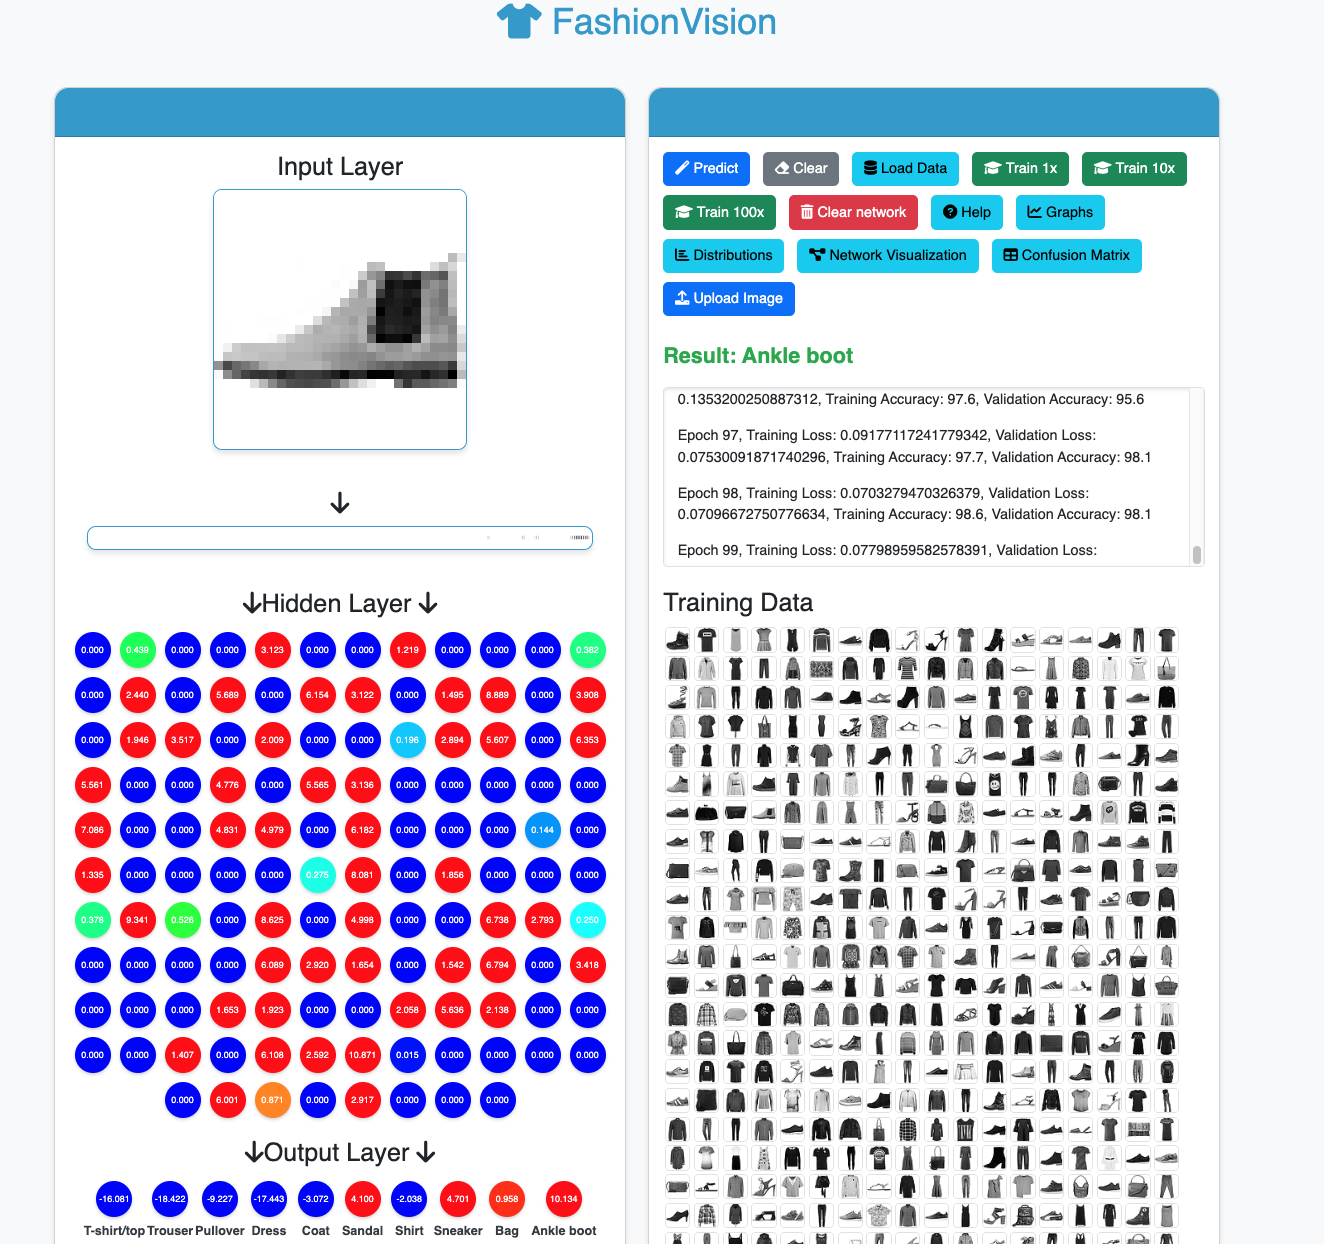
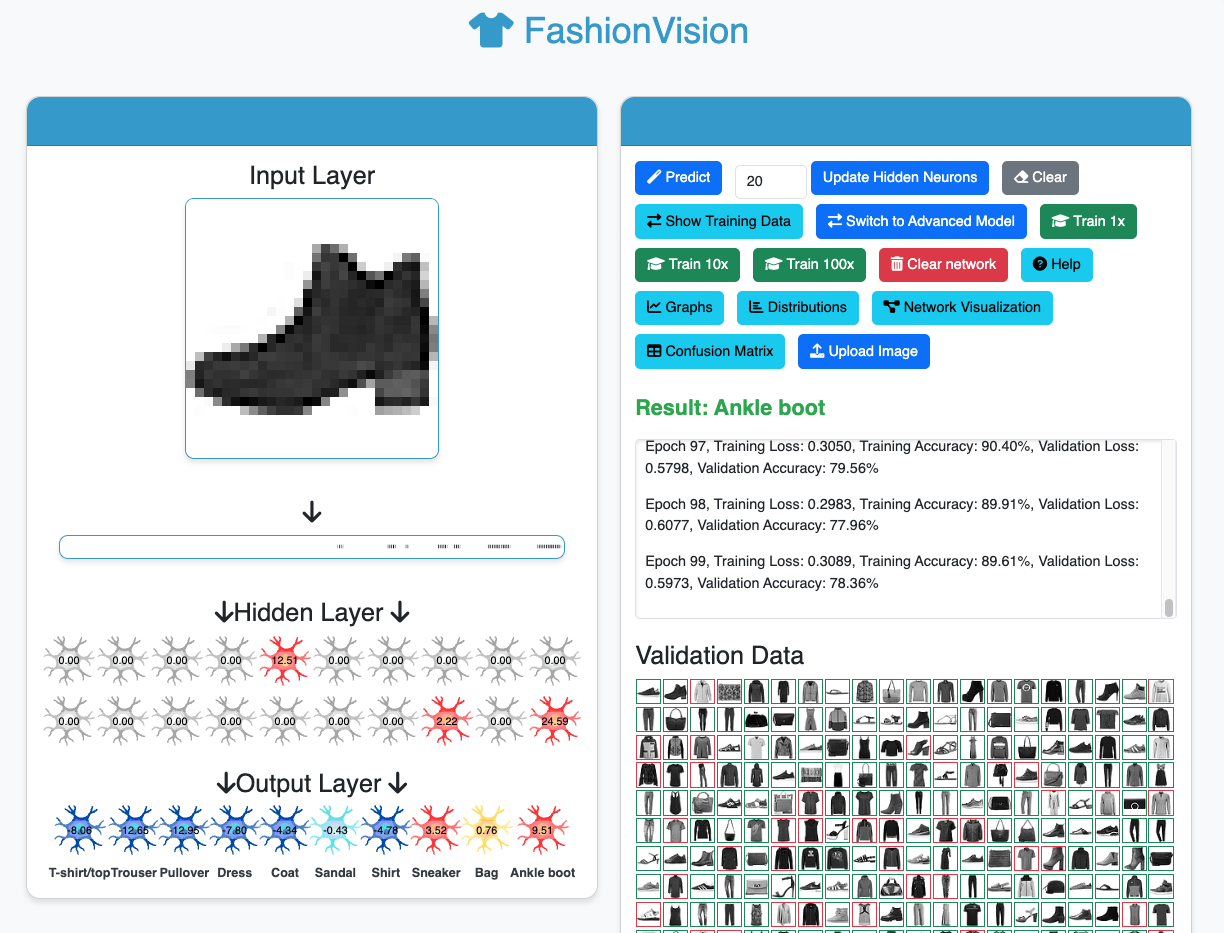
✨ feat: Added new interactive feature for drawing fashion items on a grid to test neural network predictions or upload an image. Also included pop-up windows to visualize confusion matrix, and the structure and weights of the neural network. Updated default values for `HIDDEN_NEURONS` and `LIMIT_PER

diff --git a/static/index.js b/static/index.js
@@ -392,6 +392,7 @@ $(document).ready(function() {
         $('#result').text('');
         $('#hiddenLayer').empty();
         $('#outputLayer').empty();
+        predict();
     }
 
     function trainModel(epochs) {

diff --git a/README.md b/README.md
@@ -4,11 +4,9 @@ FashionVision is a Flask web application built on PyTorch that allows users to i
 
 ## Features
 
-- **Interactive Digit Drawing:** Draw digits on a grid to test the neural network's predictions.
+- **Interactive Fashion Drawing:** Draw Fashion on a grid to test the neural network's predictions or upload a image.
 - **Real-Time Training:** Train the neural network on the Fashion-MNIST dataset and visualize training progress in real-time.
 - **Metrics Visualization:** View training and validation loss and accuracy in a popup graph.
-- **Model Management:** Save and load trained models for later use.
-- **Hyperparameter Tuning:** Adjust training parameters like learning rate and batch size through the UI.
 - **Confusion Matrix:** Visualize the model's performance using a confusion matrix.
 
 ## Screenshots
@@ -18,6 +16,12 @@ FashionVision is a Flask web application built on PyTorch that allows users to i
 
 ![Graphs Modal](screenshots/graphs.png)
 *Description: Popup window displaying training and validation metrics.*
+
+![Confusion Matrix](screenshots/matrix.png)
+*Description: Popup window displaying the confusion matrix for the trained model.*
+
+![Neural Network Visualization](screenshots/netviz.png)
+*Description: Popup window visualizing the structure and weights of the neural network.*
 
 ## Getting Started
 
@@ -77,10 +81,8 @@ digitvision/
 
 The `docker-compose.yaml` file is configured to build and run the application with the following default environment variables:
 
-- `HIDDEN_NEURONS`: Number of neurons in the hidden layer (default: 8)
-- `LIMIT_PER_DIGIT`: Number of digits per class for training (default: 16)
-- `NUM_CLASSES`: Number of output neurons and number of digit classes (default: 10)
-
+- `HIDDEN_NEURONS`: Number of neurons in the hidden layer (default: 24)
+- `LIMIT_PER_CLASS`: Number of output neurons and number of digit classes (default: 200)
 These values can be adjusted by editing the `docker-compose.yaml` file.
 
 ### Contributing
